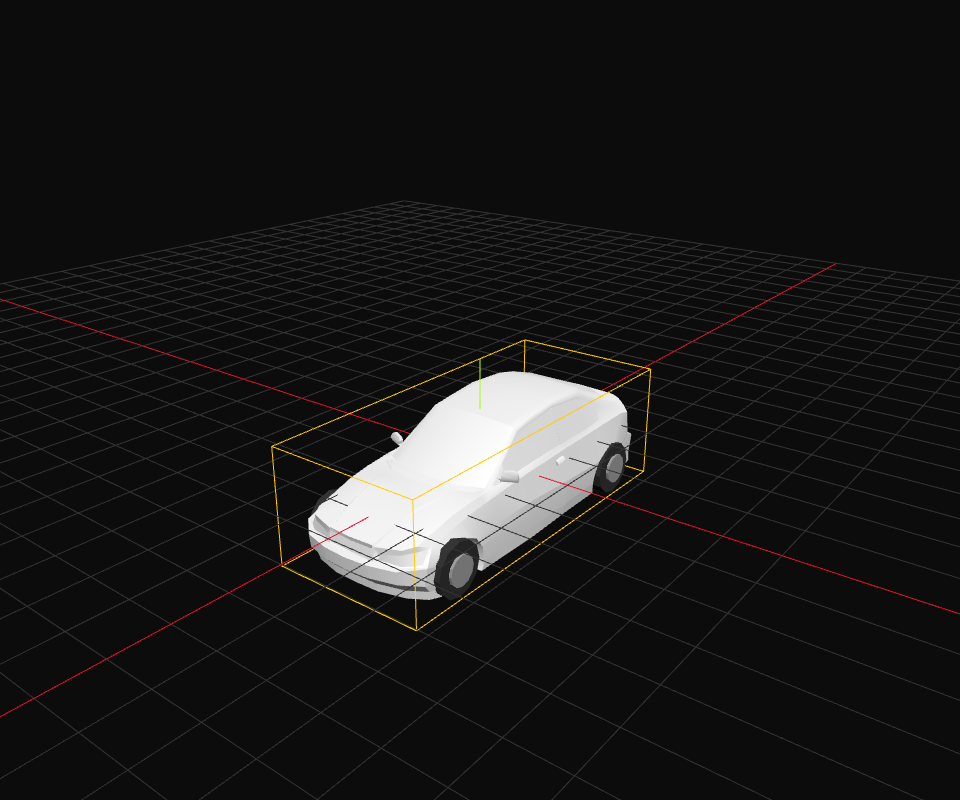
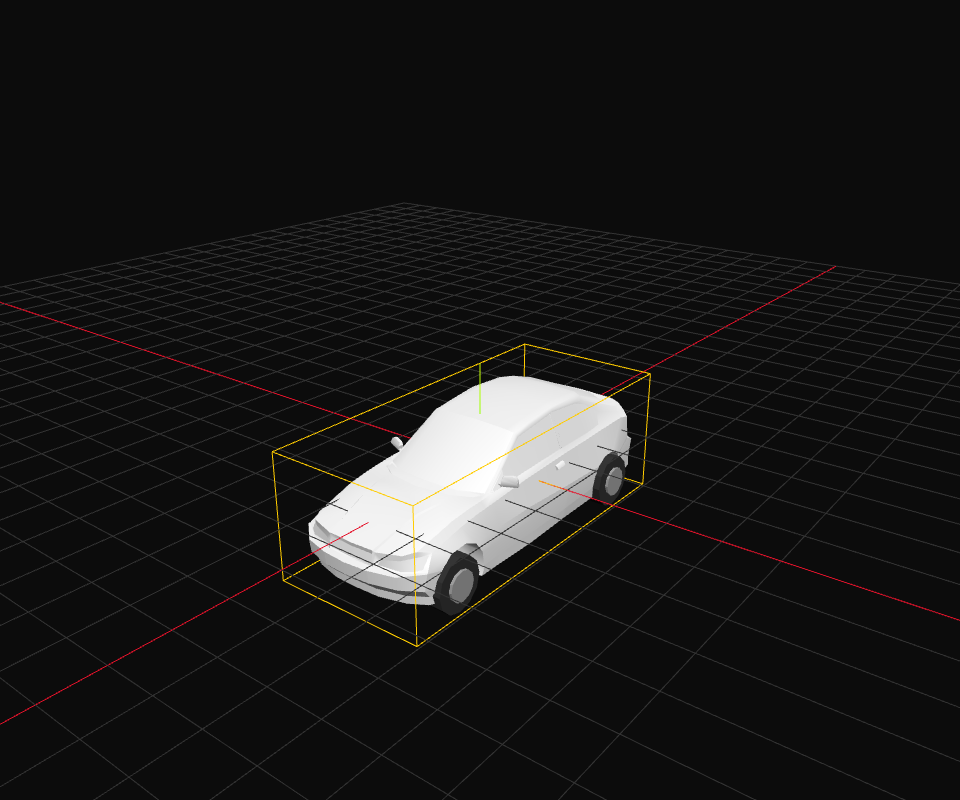
fix(scene): sit the car wheels lower in their arches

diff --git a/src/scene/car-wheels.ts b/src/scene/car-wheels.ts
@@ -22,12 +22,12 @@ function wheel(tyreColor: THREE.Color, hubColor: THREE.Color, r: number, w: numb
 /** S64: the source is a body shell only. Four wheels fill its arches (centres measured on the fitted model). */
 export function s64Wheels(tyre: THREE.Color, hub: THREE.Color): THREE.BufferGeometry {
   const parts: THREE.BufferGeometry[] = [];
-  for (const x of [-1.36, 1.36]) for (const z of [-2.47, 2.52]) parts.push(...wheel(tyre, hub, 0.53, 0.35, x, -0.72, z, 0.3, 0.06));
+  for (const x of [-1.36, 1.36]) for (const z of [-2.47, 2.52]) parts.push(...wheel(tyre, hub, 0.53, 0.35, x, -0.92, z, 0.3, 0.06));
   return mergeGeometries(parts)!;
 }
 
 /**
- * R7: also a body shell (its arches are empty too). Axles at 88 and -114.5 along the length, wheel centres 20.5 up, in the source's units;
+ * R7: also a body shell (its arches are empty too). Axles at 88 and -114.5 along the length, wheel centres 14.5 up (the tyre dips below the sill so the car stands on its wheels), in the source's units;
  * `box` is the rotated, unscaled body's bounds, so the numbers map through the same centring and scale as `fit()`.
  */
 export function r7Wheels(box: THREE.Box3, tyre: THREE.Color, hub: THREE.Color): THREE.BufferGeometry {
@@ -36,7 +36,7 @@ export function r7Wheels(box: THREE.Box3, tyre: THREE.Color, hub: THREE.Color): 
   const k = CAR_SIZE / Math.max(e.x, e.y, e.z);
   const parts: THREE.BufferGeometry[] = [];
   for (const side of [-1, 1]) for (const along of [88, -114.5]) {
-    parts.push(...wheel(tyre, hub, 20.5 * k, 24 * k, (side * 62 - c.x) * k, (20.5 - c.y) * k, (along - c.z) * k, 13 * k, 3 * k));
+    parts.push(...wheel(tyre, hub, 20.5 * k, 24 * k, (side * 62 - c.x) * k, (14.5 - c.y) * k, (along - c.z) * k, 13 * k, 3 * k));
   }
   return mergeGeometries(parts)!;
 }
